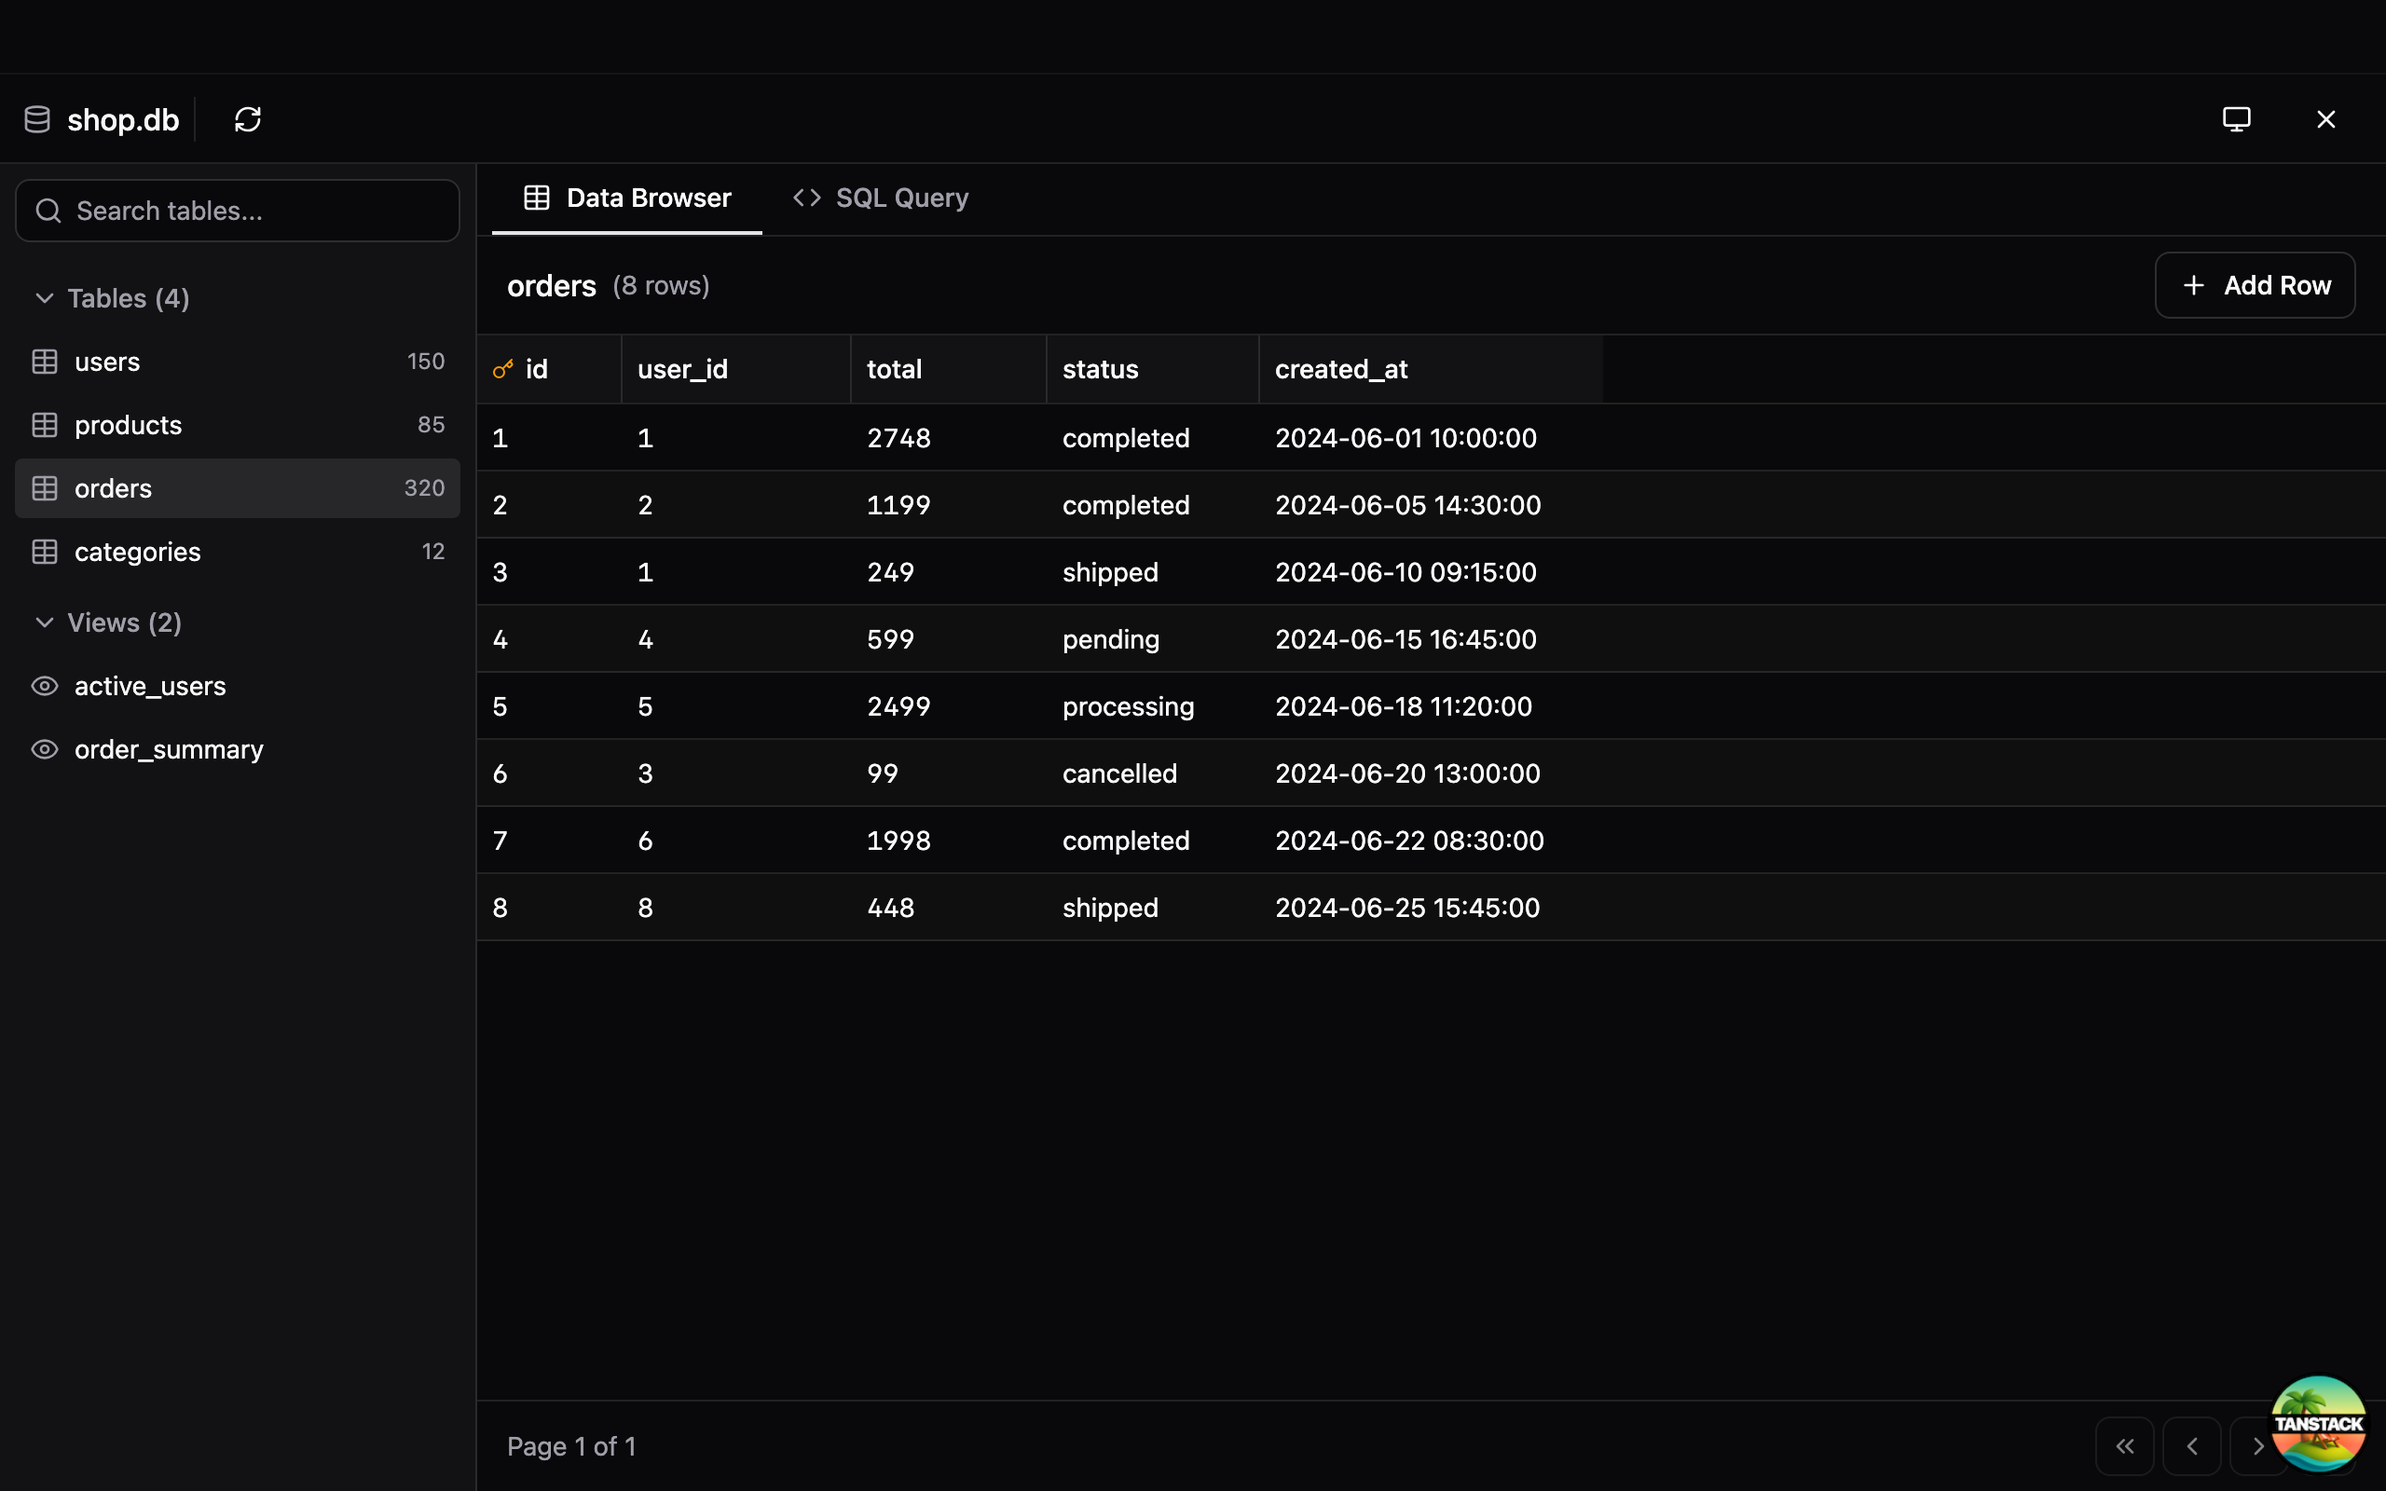
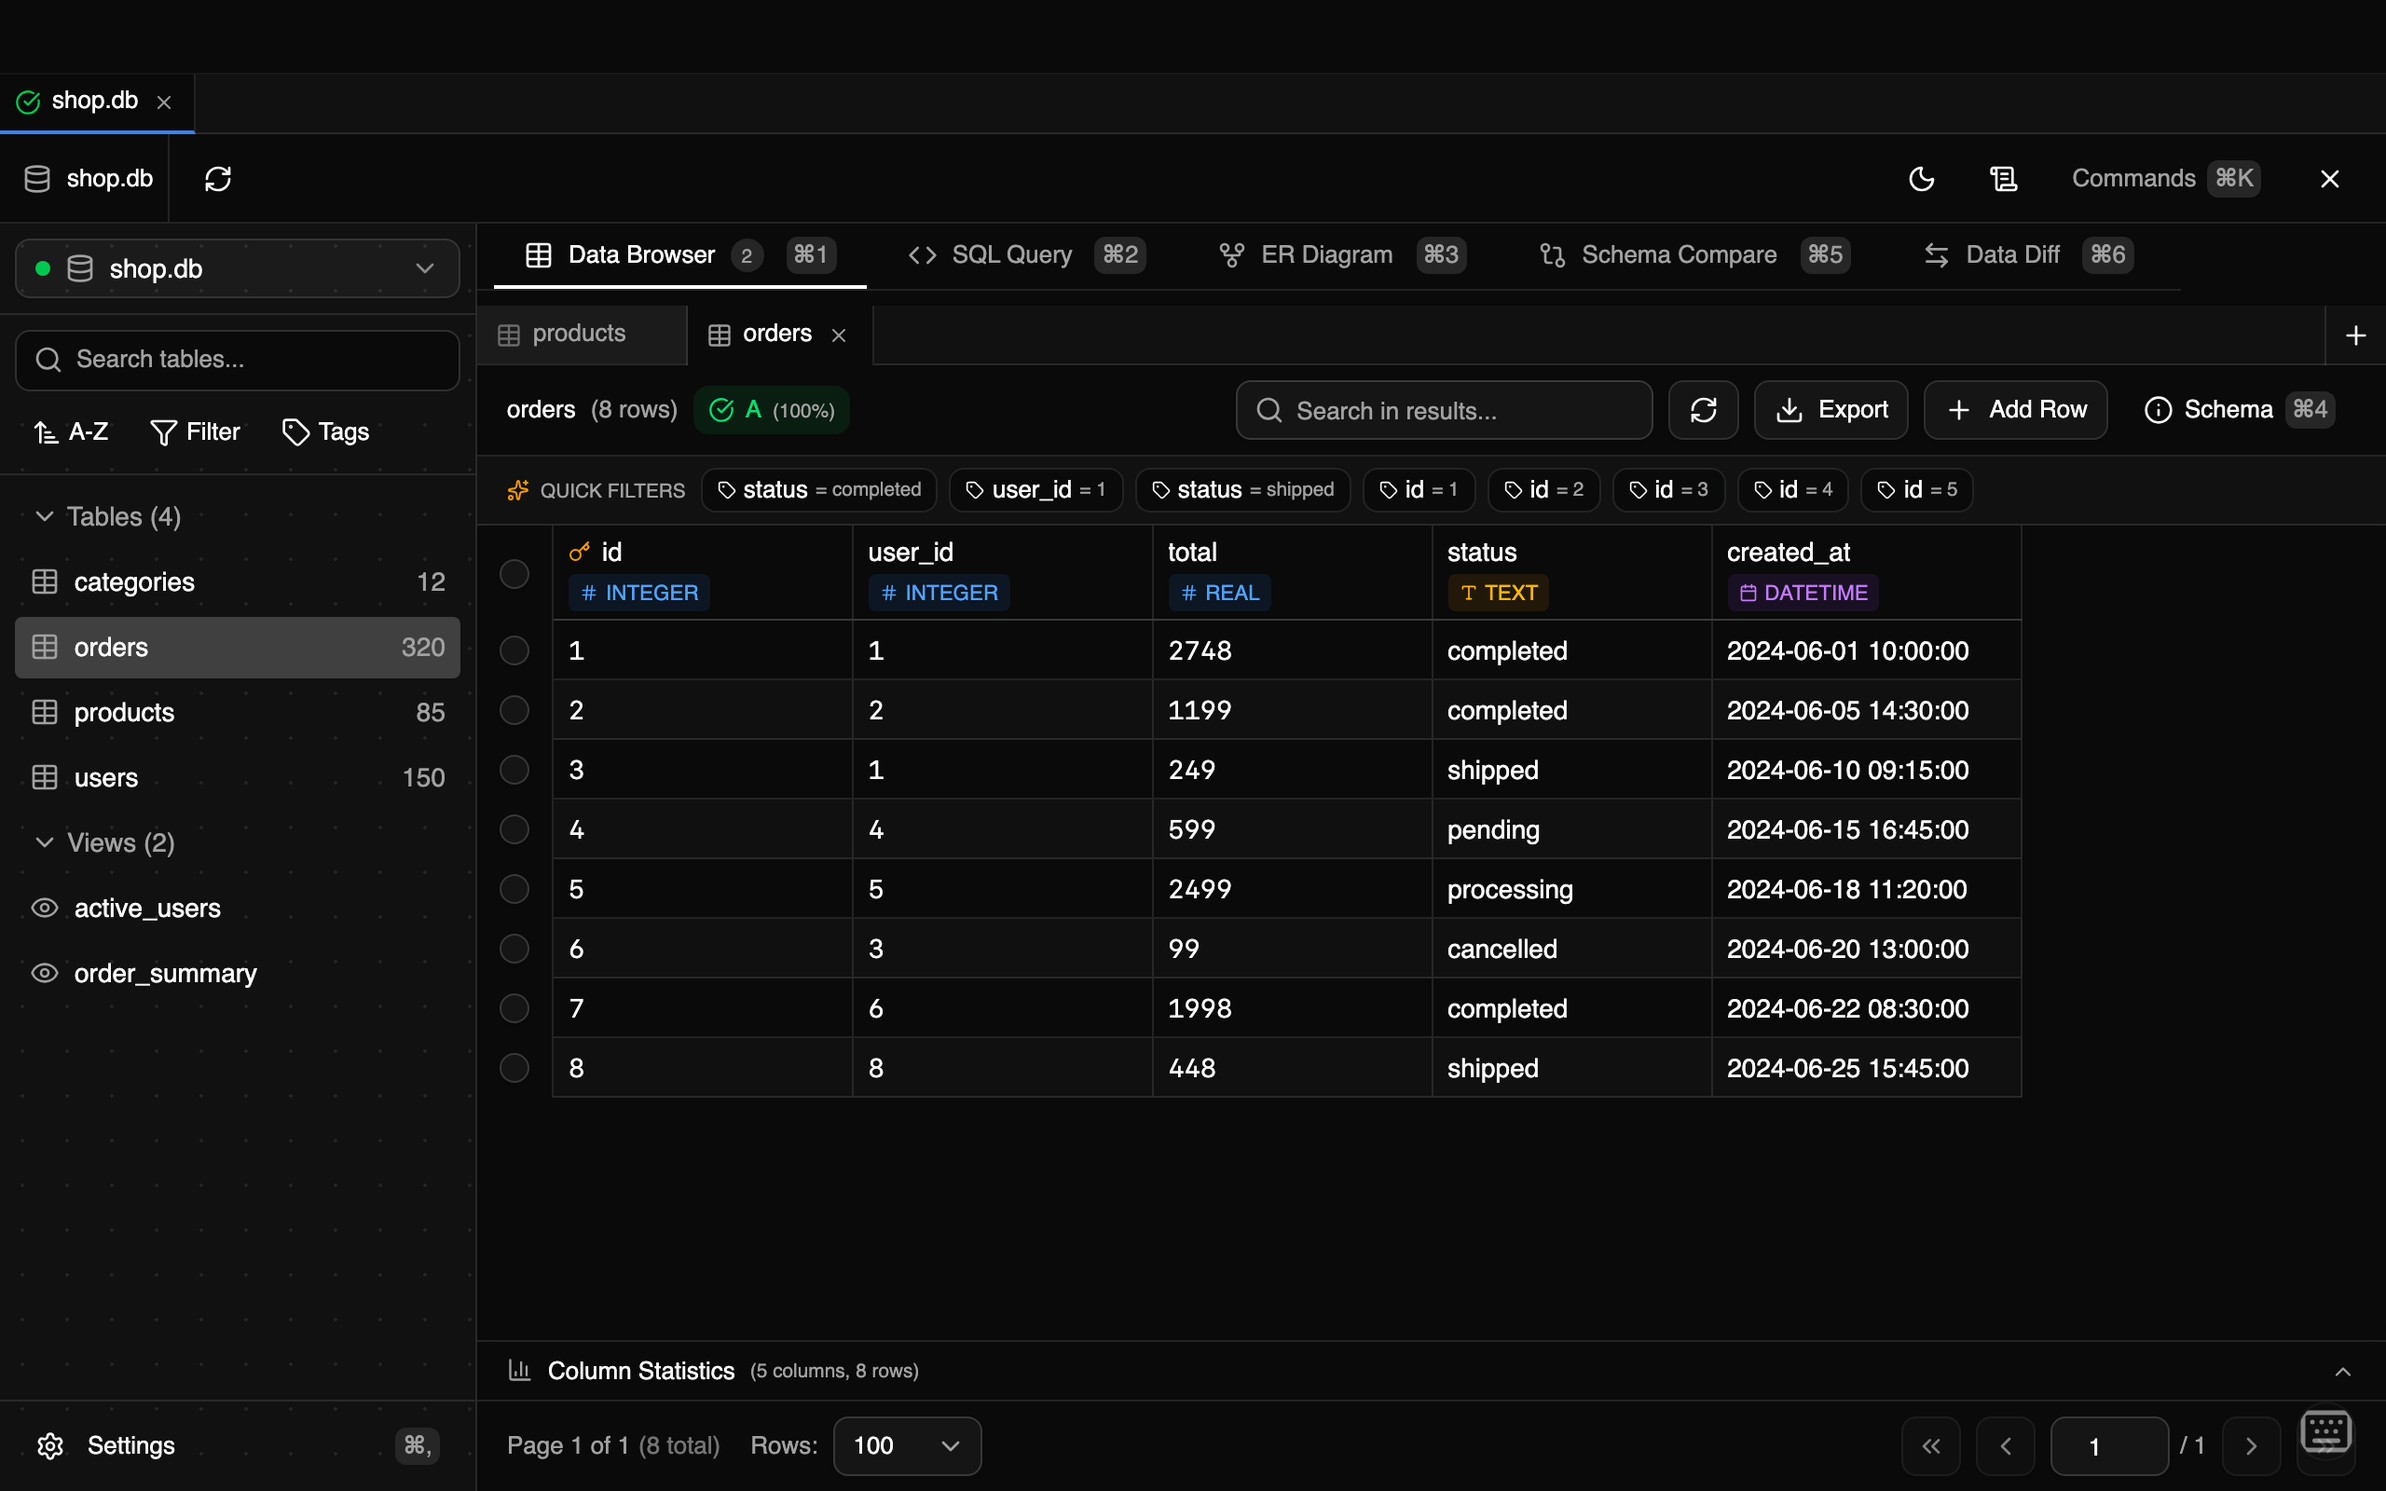
feat(mock-api): enhance mock mode detection and add new mock operations

diff --git a/scripts/capture-screenshots.ts b/scripts/capture-screenshots.ts
@@ -38,7 +38,7 @@ interface ScreenshotConfig {
   name: string;
   description: string;
   /** Action to perform before screenshot */
-  setup?: (page: Page) => Promise<void>;
+  setup?: (page: Page, baseUrl: string) => Promise<void>;
   /** Delay before taking screenshot (ms) */
   delay?: number;
   /** Specific element to screenshot (optional) */
@@ -50,9 +50,9 @@ const screenshots: ScreenshotConfig[] = [
     id: 'welcome',
     name: 'welcome',
     description: 'Welcome screen with recent connections',
-    setup: async (page) => {
-      // Navigate to welcome screen with skipAutoConnect to prevent auto-navigation to database
-      await page.goto('http://localhost:5173/#/?skipAutoConnect=true');
+    setup: async (page, baseUrl) => {
+      // Navigate to welcome screen with mock mode and skipAutoConnect to prevent auto-navigation to database
+      await page.goto(`${baseUrl}/#/?mock=true&skipAutoConnect=true`);
       await page.waitForTimeout(1000);
     },
     delay: 500,
@@ -61,9 +61,9 @@ const screenshots: ScreenshotConfig[] = [
     id: 'database',
     name: 'database',
     description: 'Database view with sidebar and table list',
-    setup: async (page) => {
+    setup: async (page, baseUrl) => {
       // Navigate to mock database view
-      await page.goto('http://localhost:5173/#/?mock=true');
+      await page.goto(`${baseUrl}/#/?mock=true`);
       await page.waitForTimeout(2000);
     },
     delay: 500,
@@ -72,8 +72,8 @@ const screenshots: ScreenshotConfig[] = [
     id: 'table',
     name: 'table',
     description: 'Users table with data',
-    setup: async (page) => {
-      await page.goto('http://localhost:5173/#/?mock=true');
+    setup: async (page, baseUrl) => {
+      await page.goto(`${baseUrl}/#/?mock=true`);
       await page.waitForTimeout(2000);
       // Click on users table
       const usersItem = page.locator('text=users').first();
@@ -88,8 +88,8 @@ const screenshots: ScreenshotConfig[] = [
     id: 'products',
     name: 'products',
     description: 'Products table with data',
-    setup: async (page) => {
-      await page.goto('http://localhost:5173/#/?mock=true');
+    setup: async (page, baseUrl) => {
+      await page.goto(`${baseUrl}/#/?mock=true`);
       await page.waitForTimeout(2000);
       // Click on products table
       const productsItem = page.locator('text=products').first();
@@ -104,8 +104,8 @@ const screenshots: ScreenshotConfig[] = [
     id: 'orders',
     name: 'orders',
     description: 'Orders table with data',
-    setup: async (page) => {
-      await page.goto('http://localhost:5173/#/?mock=true');
+    setup: async (page, baseUrl) => {
+      await page.goto(`${baseUrl}/#/?mock=true`);
       await page.waitForTimeout(2000);
       // Click on orders table
       const ordersItem = page.locator('text=orders').first();
@@ -120,8 +120,8 @@ const screenshots: ScreenshotConfig[] = [
     id: 'query',
     name: 'query',
     description: 'SQL query editor with sample query',
-    setup: async (page) => {
-      await page.goto('http://localhost:5173/#/?mock=true');
+    setup: async (page, baseUrl) => {
+      await page.goto(`${baseUrl}/#/?mock=true`);
       await page.waitForTimeout(2000);
       // Click on Query tab
       const queryTab = page
@@ -138,8 +138,8 @@ const screenshots: ScreenshotConfig[] = [
     id: 'sidebar-expanded',
     name: '07-sidebar-tables',
     description: 'Sidebar with tables expanded',
-    setup: async (page) => {
-      await page.goto('http://localhost:5173/#/?mock=true');
+    setup: async (page, baseUrl) => {
+      await page.goto(`${baseUrl}/#/?mock=true`);
       await page.waitForTimeout(2000);
       // Expand tables section if collapsed
       const tablesHeader = page.locator('text=Tables').first();
@@ -154,8 +154,8 @@ const screenshots: ScreenshotConfig[] = [
     id: 'sidebar-views',
     name: '08-sidebar-views',
     description: 'Sidebar with views section',
-    setup: async (page) => {
-      await page.goto('http://localhost:5173/#/?mock=true');
+    setup: async (page, baseUrl) => {
+      await page.goto(`${baseUrl}/#/?mock=true`);
       await page.waitForTimeout(2000);
       // Click on Views section
       const viewsHeader = page.locator('text=Views').first();
@@ -215,7 +215,8 @@ async function setTheme(page: Page, theme: 'light' | 'dark') {
 async function captureScreenshot(
   page: Page,
   config: ScreenshotConfig,
-  theme: 'light' | 'dark'
+  theme: 'light' | 'dark',
+  baseUrl: string
 ) {
   const suffix = theme === 'dark' ? '-dark' : '';
   const filename = `${config.name}${suffix}.png`;
@@ -226,7 +227,7 @@ async function captureScreenshot(
   try {
     // Run setup
     if (config.setup) {
-      await config.setup(page);
+      await config.setup(page, baseUrl);
     }
 
     // Set theme
@@ -251,7 +252,10 @@ async function captureScreenshot(
   }
 }
 
-async function startDevServer(): Promise<ChildProcess> {
+async function startDevServer(): Promise<{
+  process: ChildProcess;
+  port: number;
+}> {
   console.log('🚀 Starting dev server in mock mode...');
 
   const devProcess = spawn('pnpm', ['dev:mock'], {
@@ -267,12 +271,18 @@ async function startDevServer(): Promise<ChildProcess> {
   // Wait for server to be ready by checking the output
   return new Promise((resolve, reject) => {
     let output = '';
+    let port = 5173; // default port
 
     devProcess.stdout?.on('data', (data) => {
       output += data.toString();
-      if (output.includes('Local:') || output.includes('localhost:5173')) {
+      // Extract the actual port from output like "http://localhost:5175/"
+      const portMatch = output.match(/localhost:(\d+)/);
+      if (portMatch) {
+        port = Number.parseInt(portMatch[1], 10);
+      }
+      if (output.includes('Local:') || output.includes('localhost:')) {
         // Server is ready
-        setTimeout(() => resolve(devProcess), 2000);
+        setTimeout(() => resolve({ process: devProcess, port }), 2000);
       }
     });
 
@@ -284,7 +294,7 @@ async function startDevServer(): Promise<ChildProcess> {
 
     // Timeout after 30 seconds
     setTimeout(() => {
-      if (!output.includes('localhost:5173')) {
+      if (!output.includes('localhost:')) {
         reject(new Error('Dev server failed to start within 30 seconds'));
       }
     }, 30000);
@@ -310,11 +320,15 @@ async function captureScreenshots() {
   console.log('\n📸 SQL Pro Screenshot Capture\n');
 
   let devProcess: ChildProcess | null = null;
+  let serverPort = 5173;
 
   try {
     // Start dev server
-    devProcess = await startDevServer();
-    console.log('✅ Dev server ready\n');
+    const server = await startDevServer();
+    devProcess = server.process;
+    serverPort = server.port;
+    const baseUrl = `http://localhost:${serverPort}`;
+    console.log(`✅ Dev server ready at ${baseUrl}\n`);
 
     // Import playwright
     const { chromium } = await import('playwright');
@@ -357,7 +371,7 @@ async function captureScreenshots() {
       console.log(`\n🎯 ${config.description}`);
 
       for (const theme of themes) {
-        await captureScreenshot(page, config, theme);
+        await captureScreenshot(page, config, theme, baseUrl);
       }
     }
 

diff --git a/src/renderer/src/lib/mock-api.ts b/src/renderer/src/lib/mock-api.ts
@@ -625,6 +625,20 @@ const delay = (ms: number) => new Promise((resolve) => setTimeout(resolve, ms));
 // Mock mode state
 let _isMockMode = false;
 
+// Check if mock mode is enabled via URL parameter or environment variable
+function checkMockModeFromURL(): boolean {
+  // Check environment variable first
+  if (import.meta.env.VITE_MOCK_MODE === 'true') {
+    return true;
+  }
+  // Then check URL parameter
+  if (typeof window === 'undefined') return false;
+  const hashParams = new URLSearchParams(
+    window.location.hash.split('?')[1] || ''
+  );
+  return hashParams.get('mock') === 'true';
+}
+
 // Mock connection data for initialization
 const mockConnectionData = {
   connection: {
@@ -637,7 +651,13 @@ const mockConnectionData = {
     connectedAt: new Date(),
   },
   schema: {
-    schemas: [],
+    schemas: [
+      {
+        name: 'main',
+        tables: mockTables,
+        views: mockViews,
+      },
+    ],
     tables: mockTables,
     views: mockViews,
   },
@@ -651,7 +671,7 @@ export async function initMockMode(): Promise<
 }
 
 export function isMockMode(): boolean {
-  return _isMockMode;
+  return _isMockMode || checkMockModeFromURL();
 }
 
 // Mock SQL Pro API
@@ -678,6 +698,14 @@ export const mockSqlProAPI: any = {
     getSchema: async (_request: GetSchemaRequest): Promise<any> => {
       await delay(400);
       return {
+        success: true,
+        schemas: [
+          {
+            name: 'main',
+            tables: mockTables,
+            views: mockViews,
+          },
+        ],
         tables: mockTables,
         views: mockViews,
       };
@@ -689,9 +717,16 @@ export const mockSqlProAPI: any = {
       const pageSize = _request.pageSize || 100;
       const page = _request.page || 1;
       const offset = (page - 1) * pageSize;
+
+      // Find the table schema to get columns
+      const tableSchema = mockTables.find((t) => t.name === tableName);
+      const columns = tableSchema?.columns || [];
+
       return {
+        success: true,
+        columns,
         rows: data.slice(offset, offset + pageSize),
-        totalCount: data.length,
+        totalRows: data.length,
       };
     },
   },
@@ -833,31 +868,31 @@ export const mockSqlProAPI: any = {
     },
   },
   password: {
-    getPassword: async (_request: GetPasswordRequest): Promise<any> => {
+    get: async (_request: GetPasswordRequest): Promise<any> => {
       await delay(200);
       return {
         password: 'mock-password',
       };
     },
-    hasPassword: async (_request: HasPasswordRequest): Promise<any> => {
+    has: async (_request: HasPasswordRequest): Promise<any> => {
       await delay(200);
       return {
         hasPassword: false,
       };
     },
-    savePassword: async (_request: SavePasswordRequest): Promise<any> => {
+    save: async (_request: SavePasswordRequest): Promise<any> => {
       await delay(200);
       return {
         success: true,
       };
     },
-    removePassword: async (_request: RemovePasswordRequest): Promise<any> => {
+    remove: async (_request: RemovePasswordRequest): Promise<any> => {
       await delay(200);
       return {
         success: true,
       };
     },
-    isPasswordStorageAvailable: async (): Promise<any> => {
+    isAvailable: async (): Promise<any> => {
       await delay(200);
       return {
         available: true,
@@ -1090,6 +1125,83 @@ export const mockSqlProAPI: any = {
         success: true,
         filePath: _request.filePath,
       };
+    },
+  },
+
+  // SQL log operations (mock)
+  sqlLog: {
+    get: async (): Promise<any> => {
+      await delay(100);
+      return { logs: [] };
+    },
+    clear: async (): Promise<any> => {
+      await delay(100);
+      return { success: true };
+    },
+    onEntry: (): (() => void) => {
+      // Return a no-op unsubscribe function in mock mode
+      return () => {};
+    },
+  },
+
+  // App operations (mock)
+  app: {
+    getRecentConnections: async (): Promise<any> => {
+      await delay(100);
+      return {
+        success: true,
+        connections: [
+          {
+            id: 'recent-1',
+            path: '/Users/demo/databases/shop.db',
+            filename: 'shop.db',
+            isEncrypted: false,
+            lastOpenedAt: new Date(Date.now() - 1000 * 60 * 30).toISOString(), // 30 minutes ago
+          },
+          {
+            id: 'recent-2',
+            path: '/Users/demo/databases/inventory.db',
+            filename: 'inventory.db',
+            isEncrypted: false,
+            lastOpenedAt: new Date(
+              Date.now() - 1000 * 60 * 60 * 2
+            ).toISOString(), // 2 hours ago
+          },
+          {
+            id: 'recent-3',
+            path: '/Users/demo/databases/analytics.db',
+            filename: 'analytics.db',
+            isEncrypted: true,
+            lastOpenedAt: new Date(
+              Date.now() - 1000 * 60 * 60 * 24
+            ).toISOString(), // 1 day ago
+          },
+          {
+            id: 'recent-4',
+            path: '/Users/demo/projects/webapp/data.sqlite',
+            filename: 'data.sqlite',
+            isEncrypted: false,
+            lastOpenedAt: new Date(
+              Date.now() - 1000 * 60 * 60 * 24 * 3
+            ).toISOString(), // 3 days ago
+          },
+        ],
+      };
+    },
+    getPreferences: async (): Promise<any> => {
+      await delay(50);
+      return {
+        success: true,
+        preferences: {
+          theme: 'dark',
+          fontSize: 14,
+          tabSize: 2,
+        },
+      };
+    },
+    setPreferences: async (): Promise<any> => {
+      await delay(50);
+      return { success: true };
     },
   },
 };
